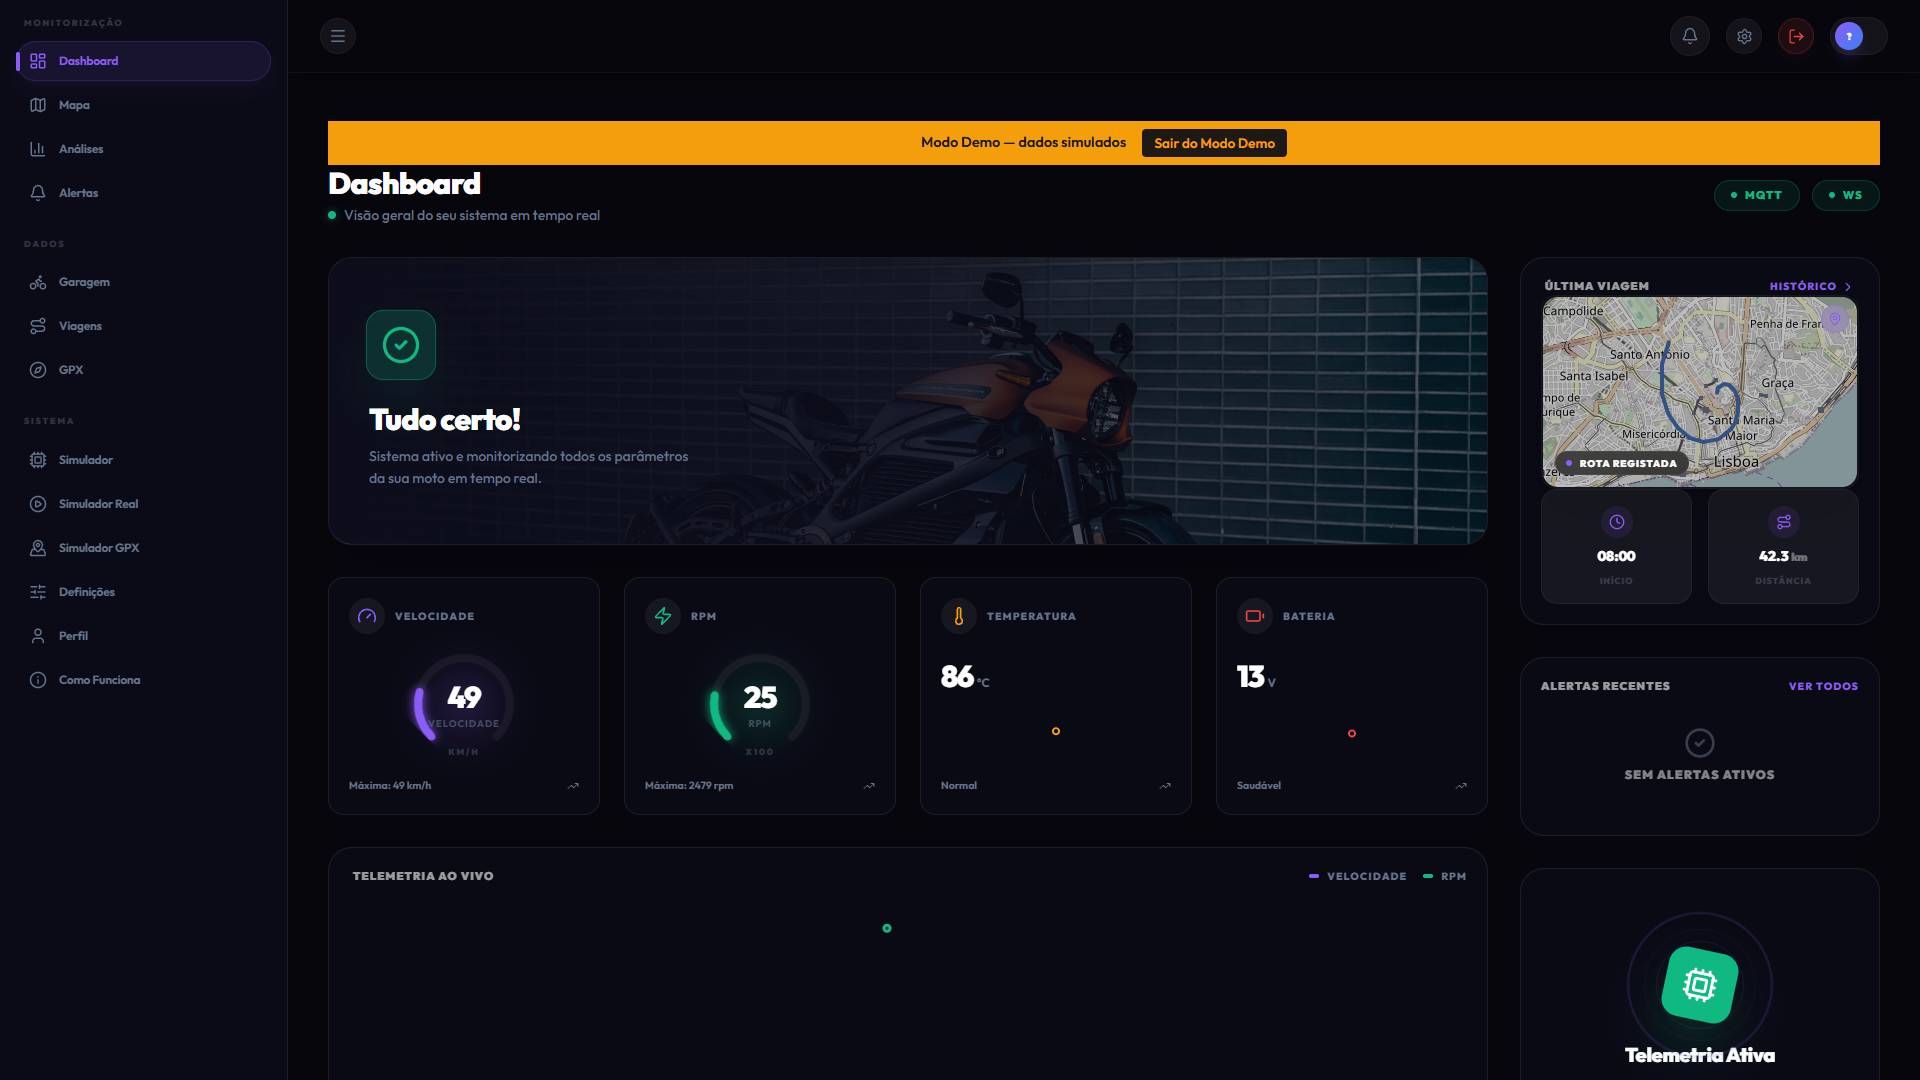
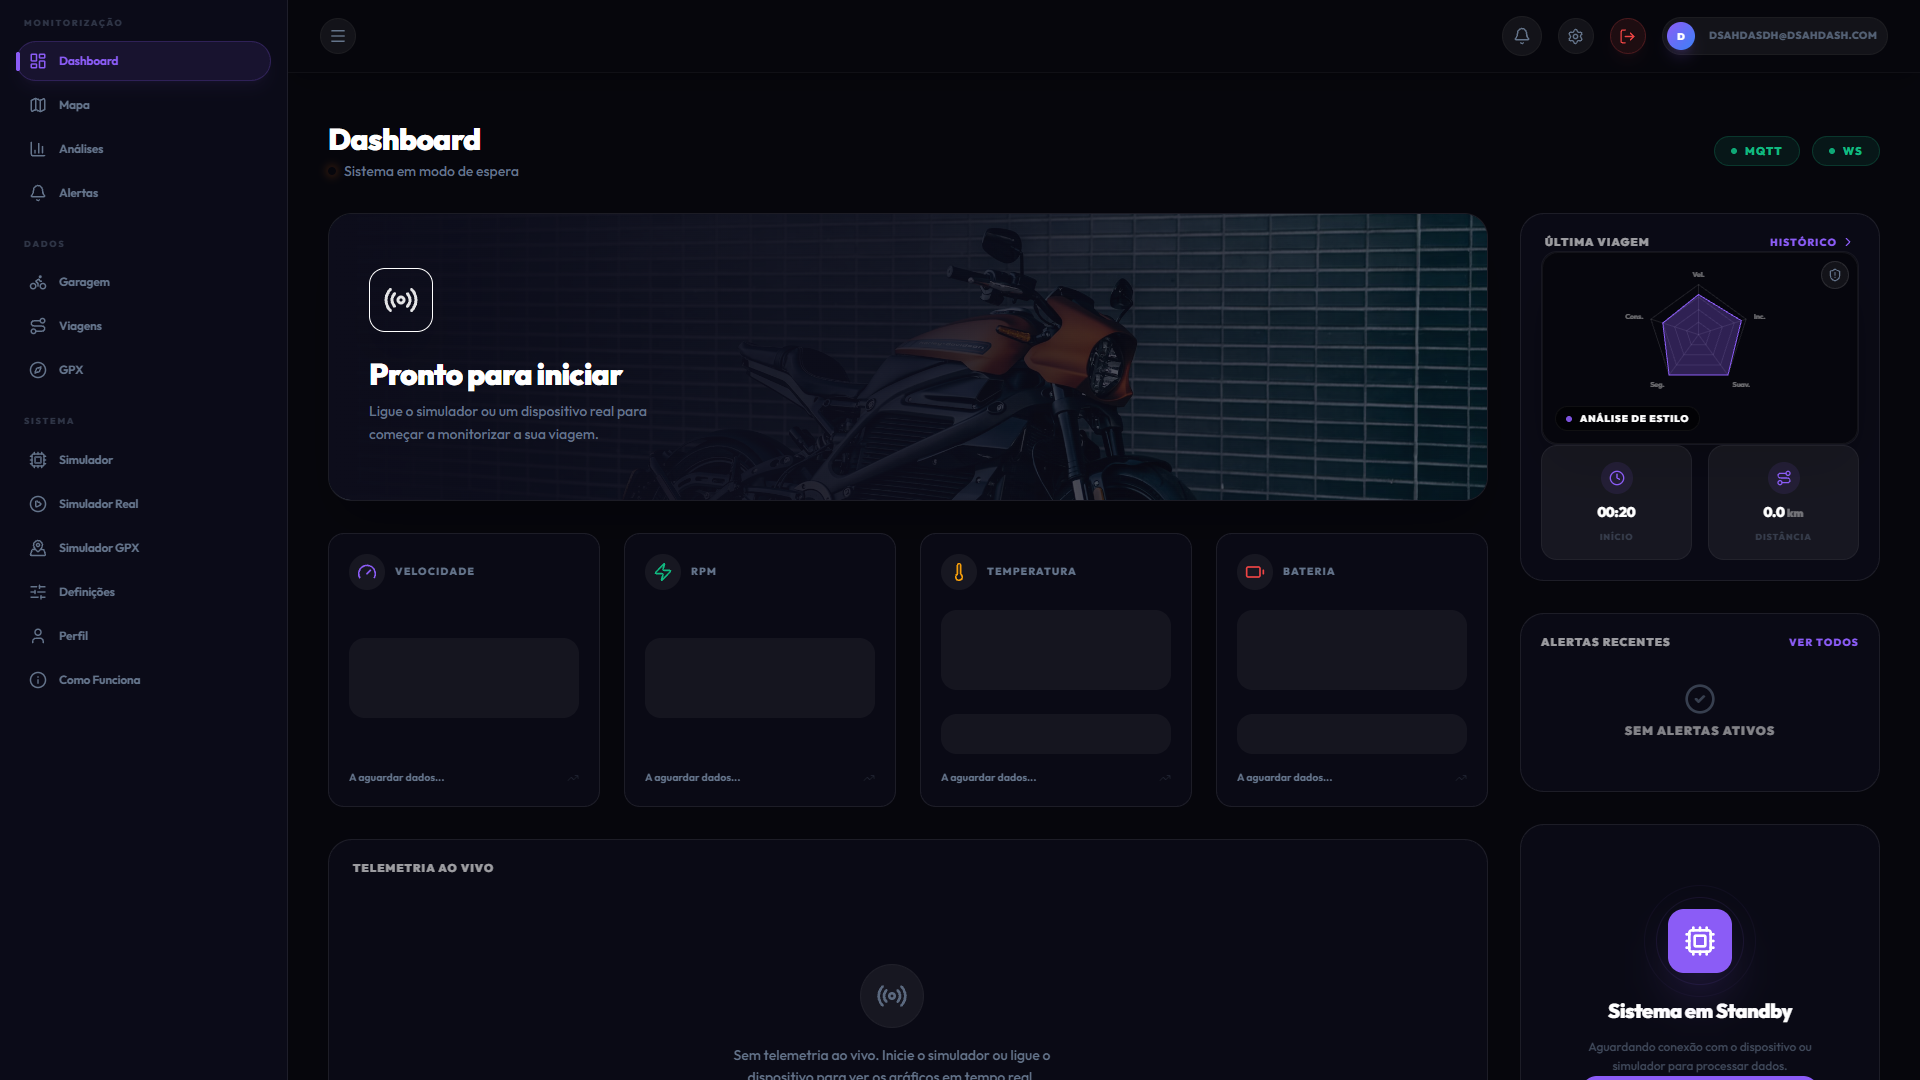
docs: regenerate all screenshots under real user session and update scripts

diff --git a/app/scripts/seed-fake-data.ts b/app/scripts/seed-fake-data.ts
@@ -1,0 +1,302 @@
+import { prisma } from '../backend/src/services/prisma.service';
+import { TripSource, TripStatus, TripCategory, DrivingStyle, EventType, EventSeverity } from '../backend/src/generated/prisma/client';
+import bcrypt from 'bcryptjs';
+
+// coordinates near Lisbon and Porto, Portugal
+const routePoints = [
+  { lat: 38.71667, lon: -9.13333 }, // Lisbon
+  { lat: 38.73694, lon: -9.14268 }, // Saldanha
+  { lat: 38.74812, lon: -9.16001 }, // Campo Grande
+  { lat: 38.75923, lon: -9.17992 }, // Benfica
+  { lat: 38.78111, lon: -9.18991 }, // Odivelas
+  { lat: 38.80222, lon: -9.20012 }, // Loures
+  { lat: 38.72234, lon: -9.28123 }, // Oeiras
+  { lat: 38.70123, lon: -9.41234 }, // Cascais
+  { lat: 38.79812, lon: -9.38912 }, // Sintra
+  { lat: 38.96123, lon: -9.32981 }, // Mafra
+  { lat: 38.72522, lon: -8.99123 }, // Montijo
+  { lat: 38.65912, lon: -9.05981 }, // Barreiro
+  { lat: 38.52431, lon: -8.89321 }, // Setúbal
+  { lat: 38.56891, lon: -7.90981 }, // Évora
+  { lat: 41.14961, lon: -8.61099 }, // Porto
+  { lat: 41.16212, lon: -8.62341 }, // Boavista
+  { lat: 41.18123, lon: -8.68912 }, // Matosinhos
+  { lat: 41.15123, lon: -8.58123 }, // Gondomar
+  { lat: 41.22981, lon: -8.62912 }, // Maia
+  { lat: 41.33231, lon: -8.72123 }, // Vila do Conde
+  { lat: 41.55032, lon: -8.42005 }, // Braga
+  { lat: 41.44253, lon: -8.29178 }, // Guimarães
+];
+
+function getRandomElement<T>(arr: T[]): T {
+  return arr[Math.floor(Math.random() * arr.length)];
+}
+
+function getRandomInRange(min: number, max: number): number {
+  return Math.random() * (max - min) + min;
+}
+
+function getRandomIntInRange(min: number, max: number): number {
+  return Math.floor(Math.random() * (max - min + 1)) + min;
+}
+
+async function main() {
+  console.log('Starting seed-fake-data...');
+
+  // Update password to 'password123' for all users
+  const users = await prisma.user.findMany();
+  const passwordHash = await bcrypt.hash('password123', 12);
+  for (const u of users) {
+    await prisma.user.update({
+      where: { id: u.id },
+      data: { passwordHash }
+    });
+  }
+  console.log(`Updated password to 'password123' for all ${users.length} users.`);
+
+  // 1. Get all motorcycles
+  const motorcycles = await prisma.motorcycle.findMany({
+    include: { profile: true }
+  });
+
+  if (motorcycles.length === 0) {
+    console.log('No motorcycles found in the database. Run seed.ts first or create some in the app!');
+    return;
+  }
+
+  console.log(`Found ${motorcycles.length} motorcycles to seed data for.`);
+
+  // Clean up existing trips & events first to start fresh and clean
+  console.log('Cleaning up existing trips and events to start with clean mock data...');
+  await prisma.tripEvent.deleteMany({});
+  await prisma.trip.deleteMany({});
+  console.log('Cleanup done!');
+
+  for (const moto of motorcycles) {
+    console.log(`\nGenerating trips for motorcycle: "${moto.name}" (${moto.profile?.name || 'N/A'}) belonging to User ID: ${moto.userId}`);
+
+    // Create 6 completed trips of different styles for each motorcycle
+    const tripConfigs = [
+      {
+        category: TripCategory.COMMUTE,
+        drivingStyle: DrivingStyle.DEFENSIVE,
+        distanceKm: 12.4,
+        avgSpeed: 42.5,
+        maxSpeed: 82.0,
+        maxRoll: 18.2,
+        maxG: 1.1,
+        mlScore: 0.08,
+        hoursAgoStart: 48,
+        durationMinutes: 20
+      },
+      {
+        category: TripCategory.WEEKEND_RIDE,
+        drivingStyle: DrivingStyle.AGGRESSIVE,
+        distanceKm: 85.6,
+        avgSpeed: 78.4,
+        maxSpeed: 145.0,
+        maxRoll: 42.1,
+        maxG: 1.9,
+        mlScore: 0.76,
+        hoursAgoStart: 36,
+        durationMinutes: 75
+      },
+      {
+        category: TripCategory.WEEKEND_RIDE,
+        drivingStyle: DrivingStyle.DEFENSIVE,
+        distanceKm: 120.3,
+        avgSpeed: 68.2,
+        maxSpeed: 110.0,
+        maxRoll: 29.5,
+        maxG: 1.3,
+        mlScore: 0.12,
+        hoursAgoStart: 24,
+        durationMinutes: 110
+      },
+      {
+        category: TripCategory.COMMUTE,
+        drivingStyle: DrivingStyle.ECONOMY,
+        distanceKm: 8.2,
+        avgSpeed: 32.1,
+        maxSpeed: 65.0,
+        maxRoll: 12.4,
+        maxG: 0.95,
+        mlScore: 0.03,
+        hoursAgoStart: 12,
+        durationMinutes: 15
+      },
+      {
+        category: TripCategory.COMMUTE,
+        drivingStyle: DrivingStyle.AGGRESSIVE,
+        distanceKm: 14.8,
+        avgSpeed: 52.0,
+        maxSpeed: 98.0,
+        maxRoll: 32.0,
+        maxG: 1.6,
+        mlScore: 0.45,
+        hoursAgoStart: 4,
+        durationMinutes: 18
+      },
+      {
+        category: TripCategory.OFF_ROAD,
+        drivingStyle: DrivingStyle.DEFENSIVE,
+        distanceKm: 24.5,
+        avgSpeed: 28.6,
+        maxSpeed: 62.0,
+        maxRoll: 25.4,
+        maxG: 1.8,
+        mlScore: 0.28,
+        hoursAgoStart: 2,
+        durationMinutes: 45
+      }
+    ];
+
+    for (let i = 0; i < tripConfigs.length; i++) {
+      const config = tripConfigs[i];
+      const startedAt = new Date();
+      startedAt.setHours(startedAt.getHours() - config.hoursAgoStart);
+      const endedAt = new Date(startedAt.getTime() + config.durationMinutes * 60 * 1000);
+
+      const trip = await prisma.trip.create({
+        data: {
+          userId: moto.userId,
+          motorcycleId: moto.id,
+          source: TripSource.SIMULATOR,
+          startedAt,
+          endedAt,
+          distanceKm: config.distanceKm,
+          maxSpeedKmh: config.maxSpeed,
+          avgSpeedKmh: config.avgSpeed,
+          maxRollDeg: config.maxRoll,
+          maxGForce: config.maxG,
+          status: TripStatus.COMPLETED,
+          mlScore: config.mlScore,
+          mlModelVersion: 'motoguard-xgboost-v1.4',
+          category: config.category,
+          categoryConfidence: 0.92,
+          drivingStyle: config.drivingStyle,
+        }
+      });
+
+      console.log(`  Created trip ID: ${trip.id} - Category: ${config.category}, Distance: ${config.distanceKm} km`);
+
+      // Add a few realistic events during the trip depending on the style
+      let numEvents = 0;
+      if (config.drivingStyle === DrivingStyle.AGGRESSIVE) {
+        numEvents = getRandomIntInRange(3, 5);
+      } else if (config.drivingStyle === DrivingStyle.DEFENSIVE) {
+        numEvents = getRandomIntInRange(0, 2);
+      } else {
+        numEvents = getRandomIntInRange(0, 1);
+      }
+
+      for (let j = 0; j < numEvents; j++) {
+        const routePoint = getRandomElement(routePoints);
+        const eventOffsetMs = getRandomIntInRange(1 * 60 * 1000, (config.durationMinutes - 1) * 60 * 1000);
+        const occurredAt = new Date(startedAt.getTime() + eventOffsetMs);
+
+        // Event type configuration
+        let eventType = EventType.HARD_BRAKING;
+        let severity = EventSeverity.WARNING;
+        let message = 'Travagem brusca detetada';
+        let rollDeg = getRandomInRange(10, 25);
+        let gForce = getRandomInRange(1.2, 1.8);
+        let speed = getRandomInRange(45, 90);
+        let engineTemp = getRandomInRange(75, 98);
+        let voltage = getRandomInRange(13.2, 14.1);
+
+        const eventChoice = getRandomIntInRange(1, 6);
+        if (eventChoice === 1) {
+          eventType = EventType.HARD_BRAKING;
+          severity = EventSeverity.WARNING;
+          gForce = getRandomInRange(1.4, 2.0);
+          message = `Travagem brusca de ${gForce.toFixed(2)}G detetada`;
+        } else if (eventChoice === 2) {
+          eventType = EventType.RAPID_ACCELERATION;
+          severity = EventSeverity.INFO;
+          gForce = getRandomInRange(1.1, 1.5);
+          message = `Aceleração rápida de ${gForce.toFixed(2)}G detetada`;
+        } else if (eventChoice === 3) {
+          eventType = EventType.EXCESSIVE_LEAN;
+          severity = config.drivingStyle === DrivingStyle.AGGRESSIVE ? EventSeverity.CRITICAL : EventSeverity.WARNING;
+          rollDeg = getRandomInRange(35, 52);
+          message = `Inclinação extrema de ${rollDeg.toFixed(1)}° registada`;
+        } else if (eventChoice === 4) {
+          eventType = EventType.SPEEDING;
+          severity = EventSeverity.WARNING;
+          speed = getRandomInRange(125, 155);
+          message = `Excesso de velocidade registado: ${speed.toFixed(0)} km/h`;
+        } else if (eventChoice === 5) {
+          eventType = EventType.ENGINE_OVERREV;
+          severity = EventSeverity.WARNING;
+          message = 'Rotação excessiva do motor detetada (Redline)';
+        } else {
+          eventType = EventType.HIGH_VIBRATION;
+          severity = EventSeverity.INFO;
+          message = 'Vibração anómala no chassis detetada';
+        }
+
+        await prisma.tripEvent.create({
+          data: {
+            tripId: trip.id,
+            type: eventType,
+            severity,
+            message,
+            latitude: routePoint.lat + getRandomInRange(-0.005, 0.005),
+            longitude: routePoint.lon + getRandomInRange(-0.005, 0.005),
+            speedKmh: speed,
+            rollDeg,
+            gForce,
+            engineTempC: engineTemp,
+            voltage,
+            occurredAt
+          }
+        });
+      }
+    }
+  }
+
+  // Create one active trip for the first motorcycle to showcase active real-time status in Dashboard/Map!
+  const activeMoto = motorcycles[0];
+  const activeTrip = await prisma.trip.create({
+    data: {
+      userId: activeMoto.userId,
+      motorcycleId: activeMoto.id,
+      source: TripSource.SIMULATOR,
+      startedAt: new Date(),
+      status: TripStatus.ACTIVE,
+    }
+  });
+
+  // Add an initial event to the active trip
+  const activePoint = routePoints[0];
+  await prisma.tripEvent.create({
+    data: {
+      tripId: activeTrip.id,
+      type: EventType.SAFETY_SYSTEM_ACTIVE,
+      severity: EventSeverity.INFO,
+      message: 'Sistema de monitorização ativo em tempo real',
+      latitude: activePoint.lat,
+      longitude: activePoint.lon,
+      speedKmh: 45.0,
+      rollDeg: 5.2,
+      gForce: 1.0,
+      engineTempC: 82.0,
+      voltage: 13.8,
+      occurredAt: new Date()
+    }
+  });
+
+  console.log(`\nSuccessfully created active trip ID: ${activeTrip.id} for motorcycle ${activeMoto.name}`);
+
+  console.log('\nSeed completed successfully!');
+}
+
+main()
+  .catch(e => {
+    console.error('Error during seed:', e);
+    process.exit(1);
+  })
+  .finally(async () => {
+    await prisma.$disconnect();
+  });

diff --git a/scratch/take_screenshots.js b/scratch/take_screenshots.js
@@ -25,29 +25,22 @@ const delay = (ms) => new Promise(resolve => setTimeout(resolve, ms));
   await page.screenshot({ path: path.join(screenshotsDir, 'home_login.png') });
   console.log('Saved home_login.png');
 
-  // Open demo modal
-  const demoBtns = await page.$$('button');
-  for (const btn of demoBtns) {
-    const text = await page.evaluate(el => el.textContent, btn);
-    if (text.includes('Demonstração')) {
-      await btn.click();
-      break;
-    }
-  }
-  await delay(1000);
+  // Navigate to login
+  console.log('Navigating to Login page...');
+  await page.goto('http://localhost:3000/login', { waitUntil: 'networkidle2' });
+  await delay(1500);
 
-  // Click activate demo
-  const modalBtns = await page.$$('button');
-  for (const btn of modalBtns) {
-    const text = await page.evaluate(el => el.textContent, btn);
-    if (text.includes('Explorar Modo Demo')) {
-      await btn.click();
-      break;
-    }
-  }
+  // Type login credentials
+  console.log('Typing credentials...');
+  await page.type('input[type="email"]', 'dadsa@sdasda.com');
+  await page.type('input[type="password"]', 'password123');
 
-  console.log('Waiting for login/dashboard navigation...');
-  await delay(3000); // give time to load demo and redirect
+  // Click login
+  console.log('Clicking login button...');
+  await page.click('button[type="submit"]');
+
+  console.log('Waiting for login and redirect to /dashboard...');
+  await delay(4000); // give time to load dashboard and redirect
 
   const pagesToScreenshot = [
     { url: '/dashboard', name: 'dashboard.png' },
@@ -57,7 +50,12 @@ const delay = (ms) => new Promise(resolve => setTimeout(resolve, ms));
     { url: '/trips', name: 'viagens.png' },
     { url: '/real-simulator', name: 'simulador.png' },
     { url: '/alertas', name: 'alertas.png' },
-    { url: '/settings', name: 'configuracoes.png' }
+    { url: '/settings', name: 'configuracoes.png' },
+    { url: '/profile', name: 'perfil.png' },
+    { url: '/about', name: 'sobre.png' },
+    { url: '/gpx', name: 'gpx.png' },
+    { url: '/gpx-simulator', name: 'gpx_simulador.png' },
+    { url: '/simulator-contexts', name: 'simulator_contexts.png' }
   ];
 
   for (const item of pagesToScreenshot) {
@@ -73,11 +71,12 @@ const delay = (ms) => new Promise(resolve => setTimeout(resolve, ms));
   await page.goto('http://localhost:3000/trips', { waitUntil: 'networkidle2' });
   await delay(1500);
   
-  // Click the first link that starts with /trips/
+  // Click the first completed link that starts with /trips/ (the second one, since the first is the active trip)
   const tripLinks = await page.$$('a[href^="/trips/"]');
   if (tripLinks.length > 0) {
-    await tripLinks[0].click();
-    await delay(2000);
+    const completedLink = tripLinks.length > 1 ? tripLinks[1] : tripLinks[0];
+    await completedLink.click();
+    await delay(2500); // give Leaflet map and charts plenty of time to render
     await page.screenshot({ path: path.join(screenshotsDir, 'detalhe_viagem.png') });
     console.log('Saved detalhe_viagem.png');
   } else {
